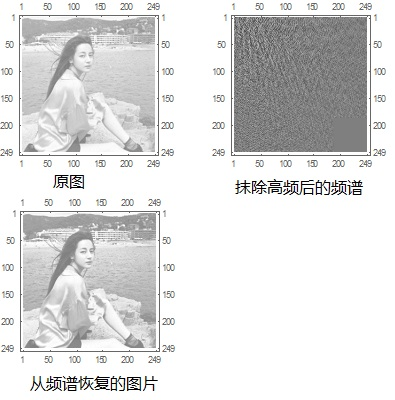
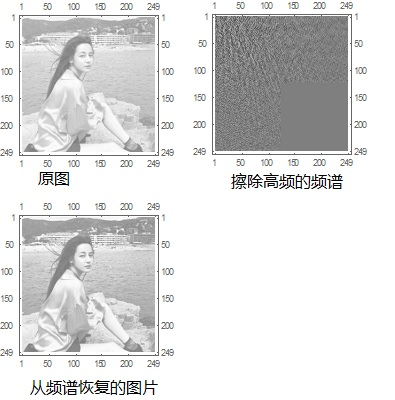
x

Changed region(s): [[0.4861, 0.0, 0.9722, 0.51], [0.0, 0.42, 0.4557, 0.99]]

diff --git a/数字信号处理导论读书笔记.md b/数字信号处理导论读书笔记.md
@@ -1486,7 +1486,7 @@ DCT变换是DFT的近亲，只使用了cos分量。
 		ImXX[k_]:=-Im[ input[[k+1]]]/NUM*2;
 		decode[i_]:=Sum[ReXX[k]*Cos[2 Pi/NUM*k*i],{k,0,NUM/2}]+Sum[ImXX[k]*Sin[2 Pi/NUM*i*k],{k,0,NUM/2}];
 		
-		Table[decode[i],{i,0-OFFSET,NUM-OFFSET-1}]
+		Table[decode[i],{i,0-OFFSET,0}]
 	];
 
 然后调用这两个函数对图片做处理：
@@ -1523,10 +1523,10 @@ DCT变换是DFT的近亲，只使用了cos分量。
 	Do[
 		Do[
 			ReX[[i,j]] = 0,
-			{j,Round[cols/4*3],cols}
+			{j,Round[cols/2],cols}
 		];
 		Print[i],
-		{i,Round[rows/4*3],rows}
+		{i,Round[rows/2],rows}
 	];
 	Print["remove hi freq completed!"];
 	Show[MatrixPlot[ReX,ColorFunction->GrayLevel],ColorFunction->GrayLevel,ImageSize->Small]
@@ -1549,9 +1549,44 @@ DCT变换是DFT的近亲，只使用了cos分量。
 
 	Show[MatrixPlot[ReX,ColorFunction->GrayLevel],ColorFunction->GrayLevel,ImageSize->Small]	
 
-这段代码会运行时间很长，每隔一段时间会输出i的值，表示有进展。据说用Compile[]可以预编译dct/idct两个函数以加快运行速度，但是搞半天没有成功。
+这段代码会运行时间很长，每隔一段时间会输出i的值，表示有进展。
 
 ![](img/dsp/dct_compress.jpg)
+
+用Compile[]可以预编译dct/idct两个函数以加快运行速度，效率提升十倍以上：
+
+	ClearAll["Global`*"];
+	dct = Compile[{{in,_Real, 1}},
+		Module[{input=in,inputlen,NUM,OFFSET,ImX,ReX,rex,imx},
+			input = in;
+			inputlen=Length[input];
+			input=Join[input,Reverse[input[[1;;inputlen-1]]]];
+			NUM=Length[input];
+			OFFSET=inputlen-1;
+			
+			ReX =Table[Sum[input[[i+1+OFFSET]]*Cos[2 Pi/NUM*k*i],{i,0-OFFSET,NUM-1-OFFSET}], {k, 0,NUM/2}];
+			
+			ReX
+		
+		]
+	];
+	idct=Compile[{{in,_Real, 1}},
+		Module[{input=in,ImXX,ReXX,decode,NUM,OFSET},
+			input = in;
+			
+			NUM=Length[input]*2-1;
+			OFFSET=Length[input]-1;
+			ReXX = input/NUM*2;
+			
+			ReXX[[1]] = ReXX[[1]] / 2;
+			ReXX[[Floor[NUM/2]+1]] = ReXX[[Floor[NUM/2]+1]] /2;
+					
+			Table[Sum[ReXX[[k+1]]*Cos[2 Pi/NUM*k*i],{k,0,NUM/2}], {i,-OFFSET,0}]
+		]
+	];
+
+
+
 
 
 
